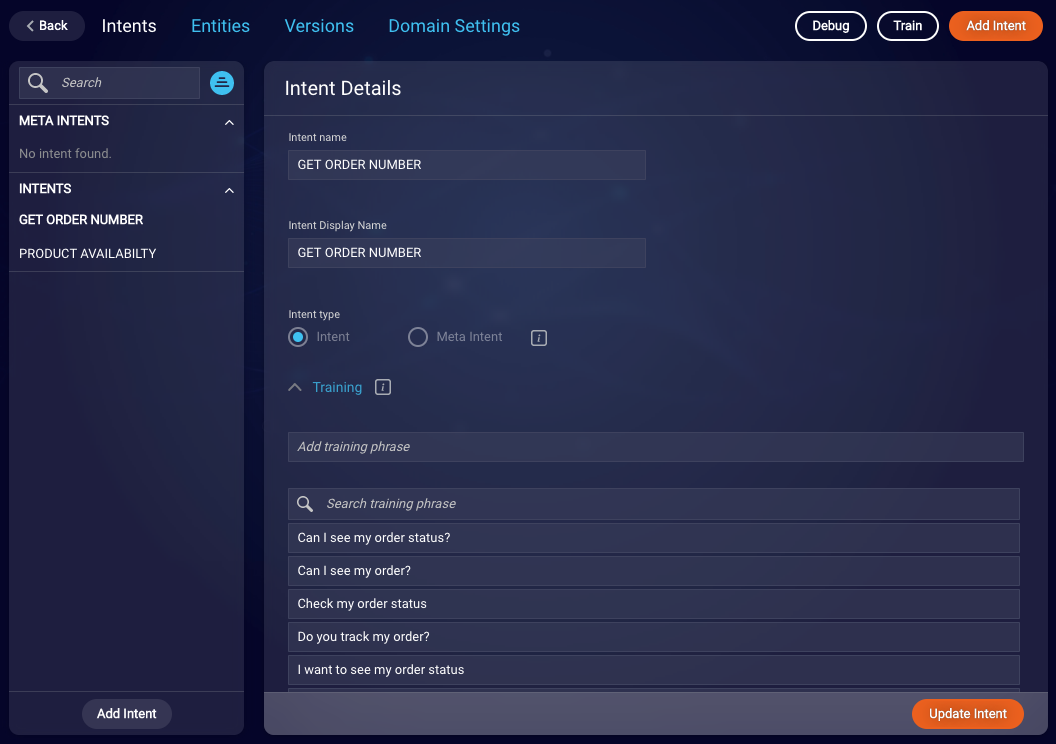
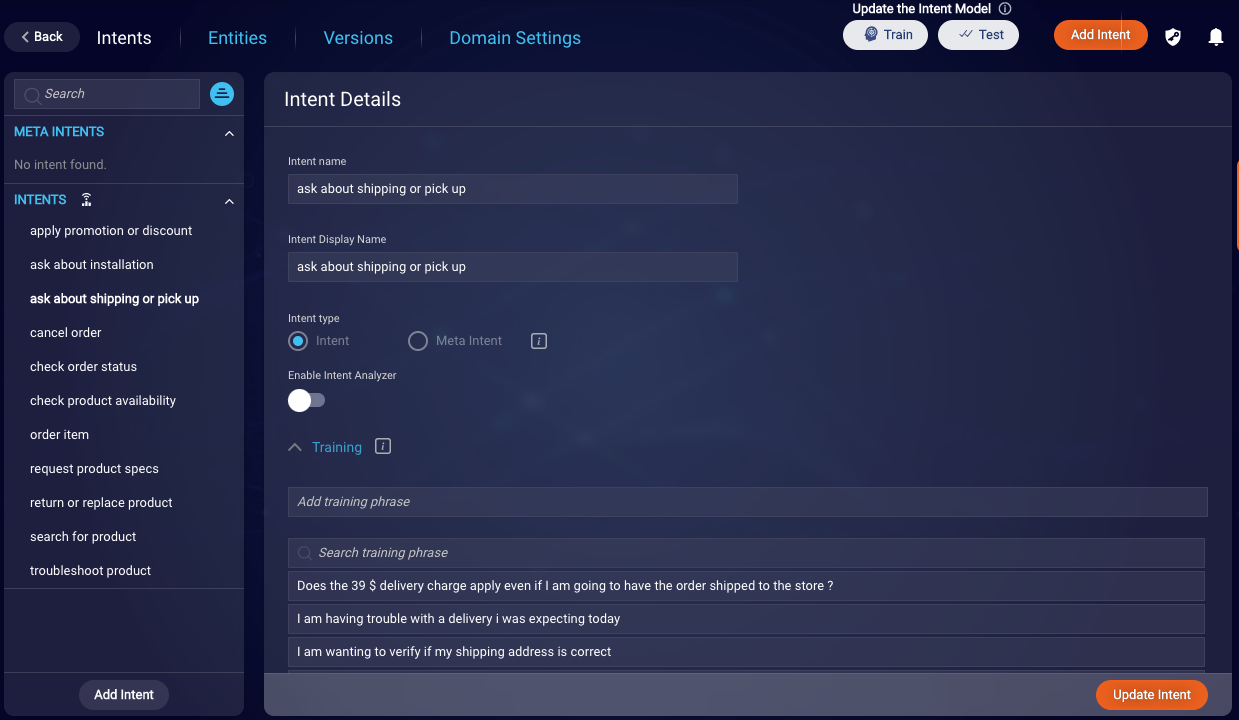
Update to reflect UI changes

Changed region(s): [[0.0, 0.0, 1.0, 1.0], [0.3125, 0.4278, 0.4688, 0.4889], [0.5, 0.4278, 0.5312, 0.4583]]

diff --git a/pages/documents/ConversationalAI/IntentBuilder/domains.md b/pages/documents/ConversationalAI/IntentBuilder/domains.md
@@ -36,7 +36,7 @@ Depending on how big the domain is, training typically takes anywhere between 2 
 1. Open the domain.
 2. Ensure the domain has *at least* 5 intents. For each intent, ensure it has *at least* 20 training phrases.
 
-    <img class="fancyimage" style="width:900px" src="img/ConvoBuilder/intents_trainingPhrases.png">
+    <img class="fancyimage" style="width:1000px" src="img/ConvoBuilder/intents_trainingPhrases.png">
 
 3. Click **Train** in the upper-right corner to start the training.
 
@@ -108,7 +108,7 @@ If the domain uses the LivePerson NLU v2 engine or a 3rd-party engine, you'll ne
 **To test a domain**
 
 1. In the dashboard that lists your domains, select the domain.
-2. Click **Debug** in the upper-right corner.
+2. Click **Test** in the upper-right corner.
     
     <img class="fancyimage" style="width:400px" src="img/ConvoBuilder/ib_debug1.png">
 
@@ -146,7 +146,7 @@ You can't change the threshold when using intents (although you can do [this](kn
 
 Activating the latest model version is something that you do if the domain is using the LivePerson NLU v2 engine or a 3rd-party NLU engine.
 
-When you’re testing using the Debug tool, you can select the model version to test. This means you can test multiple models, and then activate the **latest** model version when it performs as desired. Once you activate it, it becomes the model version that’s used everywhere **outside of** Intent Builder, for example, in Conversation Builder, in API calls to the NLU engine, in Intent Analyzer, and so on.
+When you’re testing using the Debug tool, you can select the model version to test. This means you can test multiple models, and then activate the *latest* model version when it performs as desired. Once you activate it, it becomes the model version that’s used everywhere *outside of* Intent Builder, for example, in Conversation Builder, in API calls to the NLU engine, in Intent Analyzer, and so on.
 
 {: .important}
 Ensure you test before activating the latest model version, as you can’t deactivate it or revert back to a previous version. In this situation, you’ll need to update the domain as needed, retrain to create a new model version, and then activate that latest version.

diff --git a/pages/documents/ConversationalAI/IntentBuilder/intentbuilderoverview.md b/pages/documents/ConversationalAI/IntentBuilder/intentbuilderoverview.md
@@ -14,7 +14,7 @@ The Conversation Builder platform's Intent Builder allows you to build multiple 
 
 Intents direct a bot to be more flexible and respond to a wider variety of user input. Instead of looking for specific patterns in the input (for example, the pattern "bill"), the bot uses a Natural Language Understanding (NLU) engine to look for a defined intent. Then the bot triggers the interaction that's configured to respond to the intent. Therefore, once you configure your intents with robust *training phrases*, expressions like, "I have a question about billing", "Looking to check my account," or "What's my billing status?" yield the same intent and, thus, the same response from the bot.
 
-<img class="fancyimage" style="width:800px" src="img/ConvoBuilder/ib_intentDetails.png">
+<img class="fancyimage" style="width:1000px" src="img/ConvoBuilder/ib_intentDetails.png">
 
 {: .important}
 See [here](intent-builder-natural-language-understanding.html) to learn more about the different NLU engines that are compatible with Conversation Builder.
